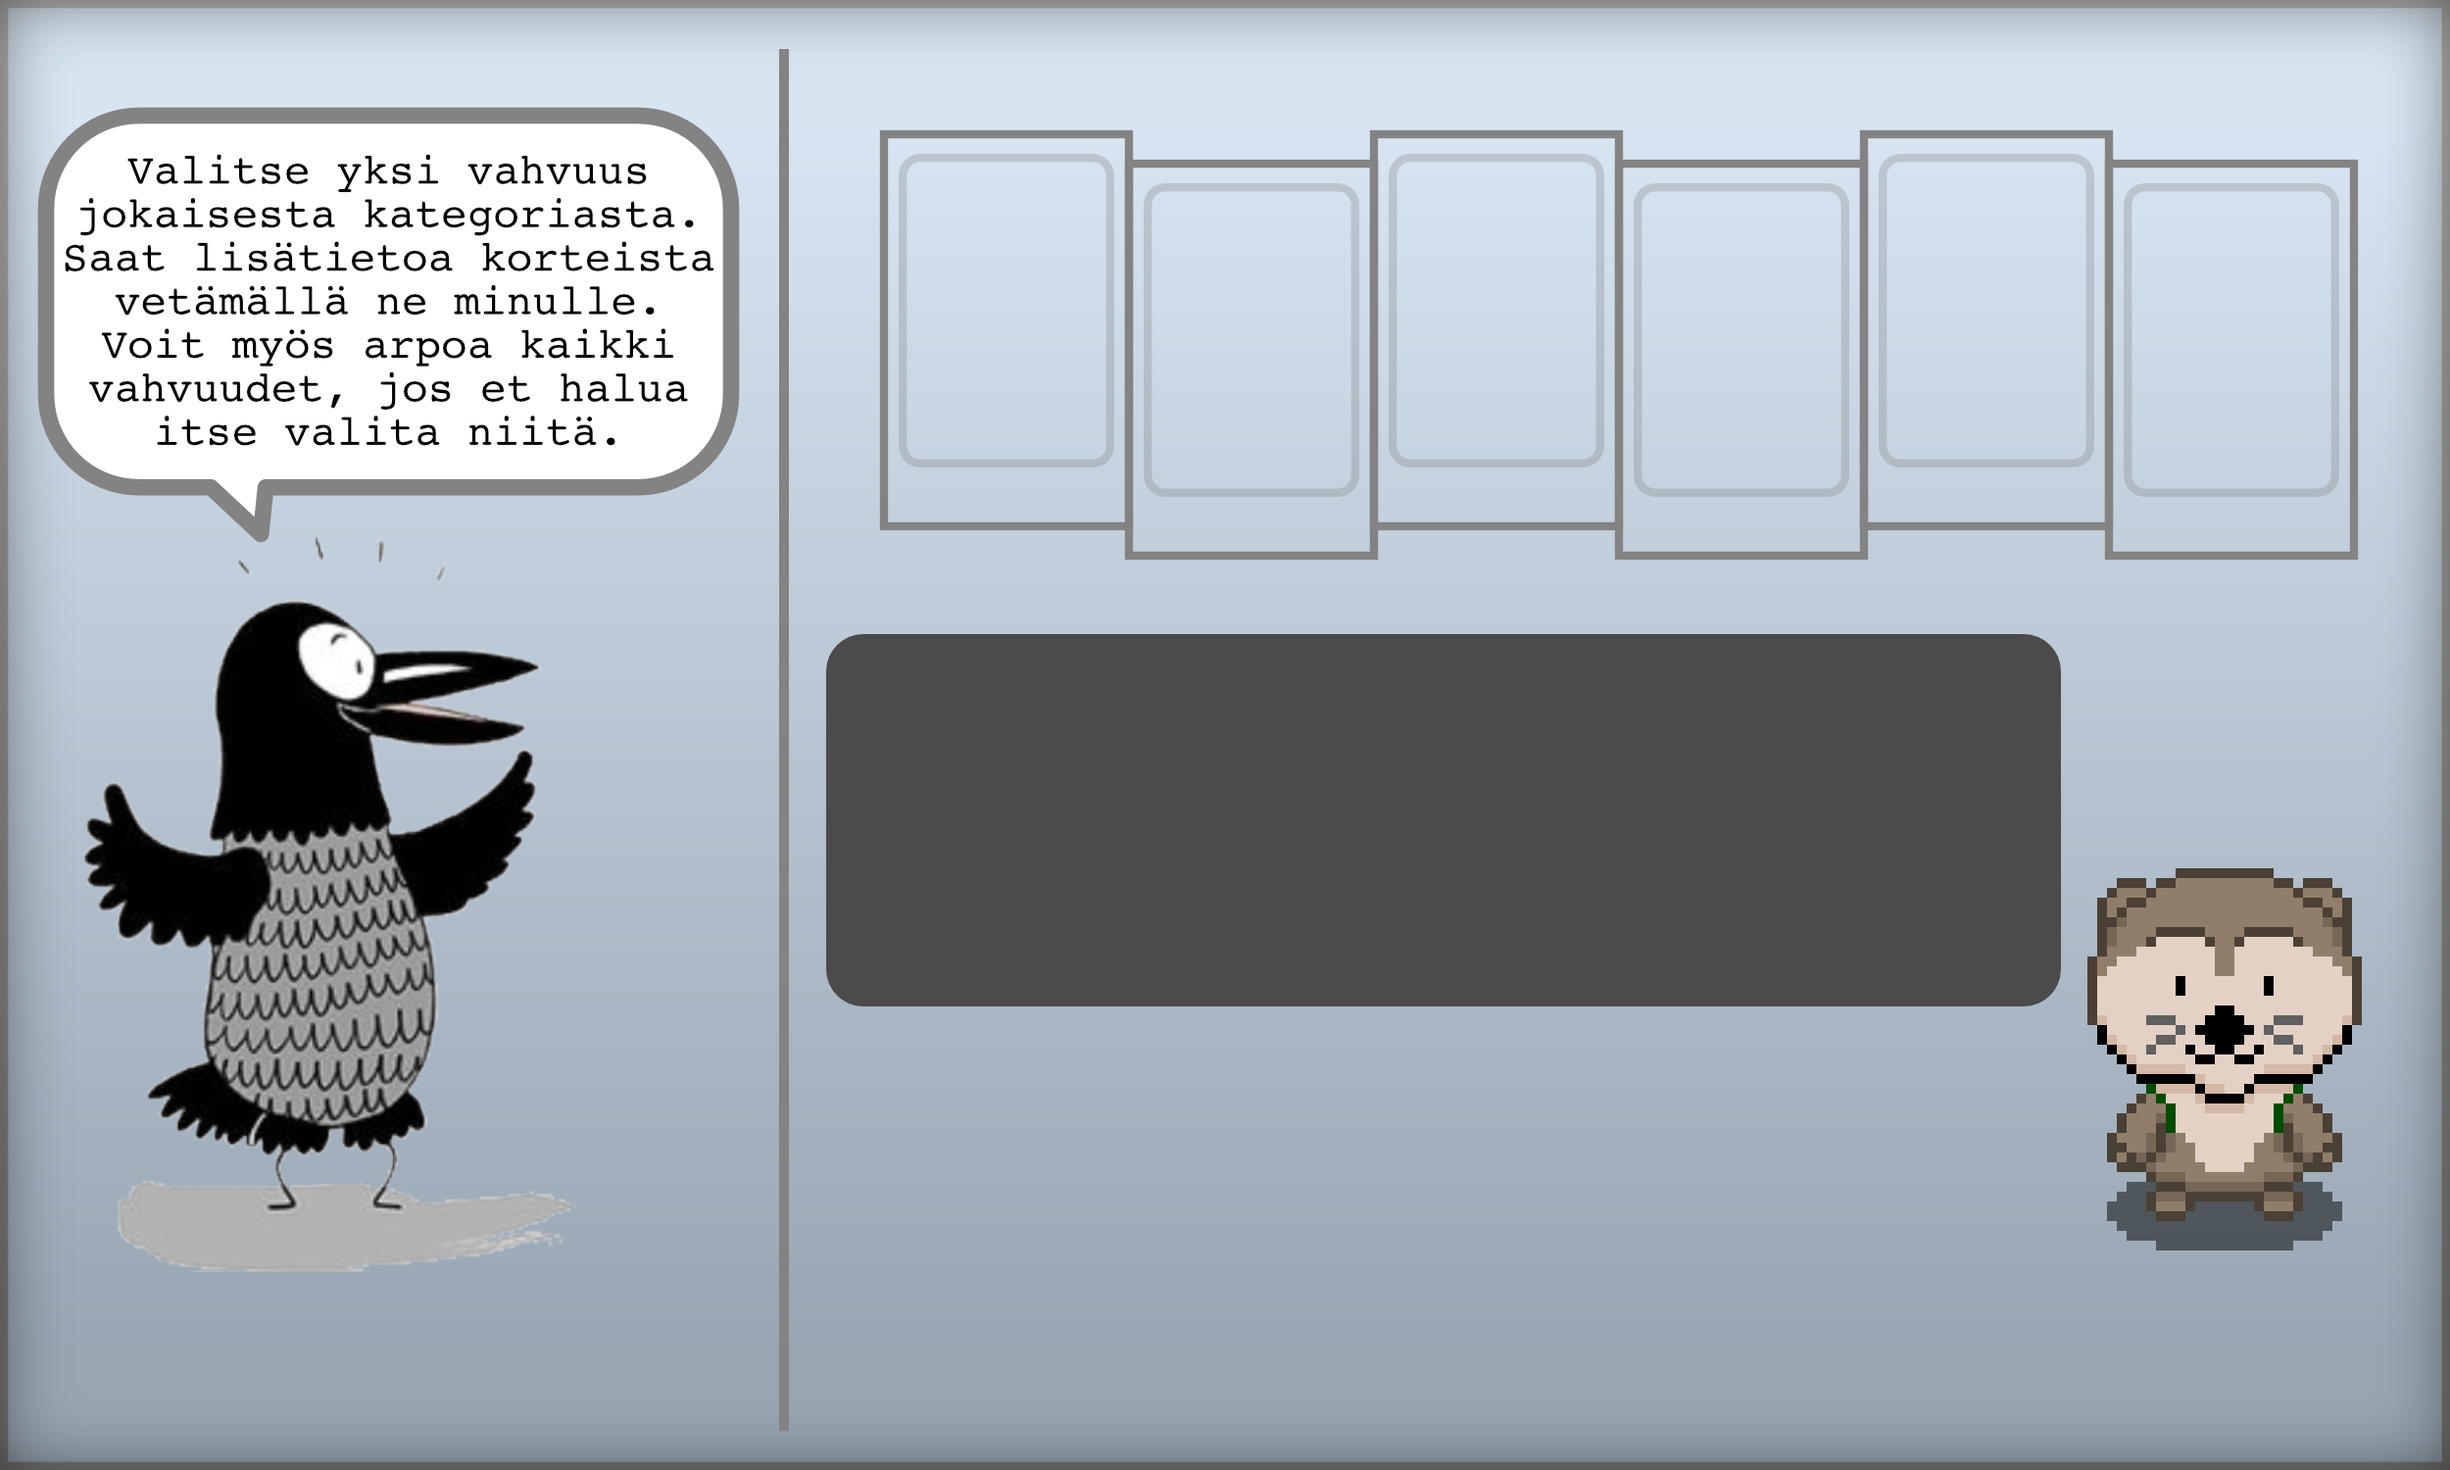
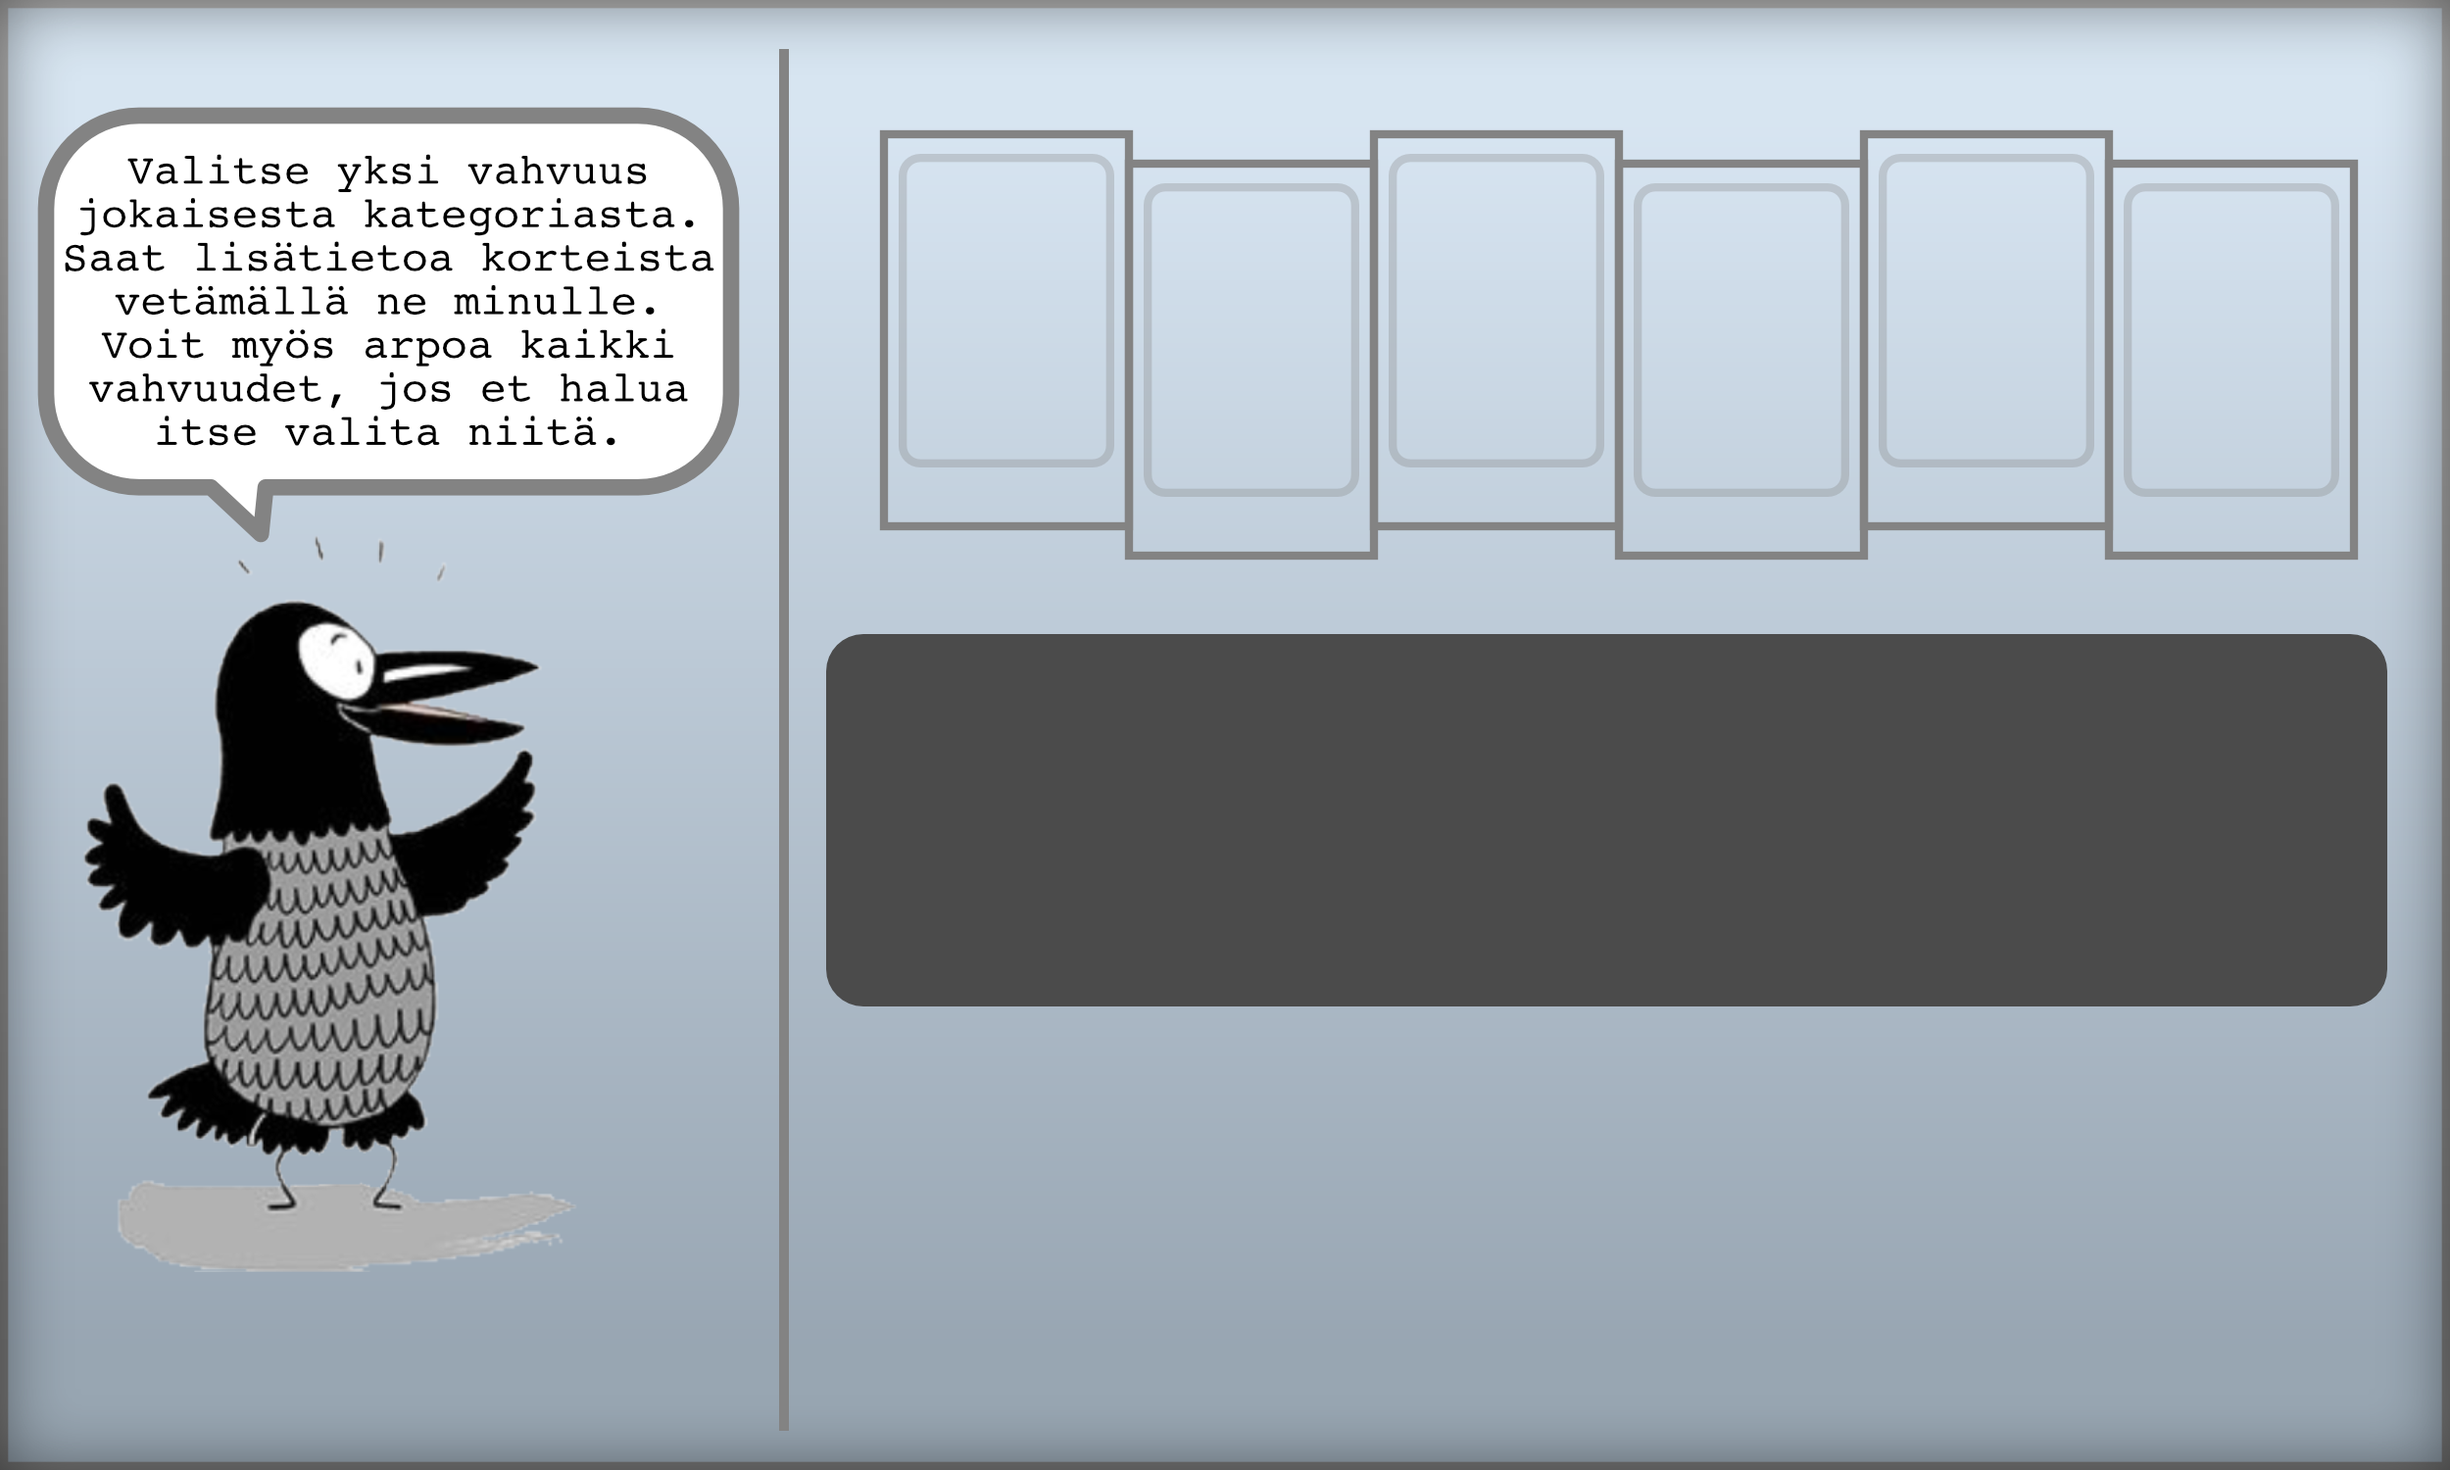
card selection works as intended

Changed region(s): [[0.8112, 0.4293, 0.9984, 0.8587]]

diff --git a/strengthMenu.py b/strengthMenu.py
@@ -6,19 +6,19 @@ import button
 import text
 import random
 
-# Class for the menu where the strength cards can be looked at and are selected
+# Class for the menu where the strength cards can be looked at and selected
 class StrengthMenu():
     def __init__(self):
         self.pos = (0,0)
         self.background = None
-        self.decks: list[list[strengthCard.StrengthCard]] = [] # every card in categorized lists
+        self.decks: list[list[tuple[strengthCard.StrengthCard,pygame.Rect]]] = [] # every card in categorized lists
         for i in range(26):
             if i == 0 or i == 5 or i == 10 or i == 14 or i == 17 or i == 21:
                 self.decks.append([])
-            self.decks[-1].append(strengthCard.createStrengthCard(i))
+            card = strengthCard.createStrengthCard(i)
+            rect = card.image.get_rect(center = (0,0))
+            self.decks[-1].append((card,rect))
         self.favorites = []
-        for i in range(len(self.decks)):
-            self.favorites.append(random.choice(self.decks[i]))
         self.cardPiles = []
         for i in range(6):
             self.cardPiles.append(picture.Picture("images/card_pile.png",(246,386), (0,0), 0.45))
@@ -30,7 +30,8 @@ class StrengthMenu():
                        text.Text(const.gameFont(15), "Henkisyys", (0,0))]
         self.inspectPile = 0
         self.strengthBackground = picture.Picture("images/strength_menu.png", (2500,1500), (0,0), 0.45)
-        self.updateBackground()
+        self.otter = picture.Picture("images/otter_1.png", (140,195), (0,0), 0.45)
+        self.randomizeFavo()
         self.backButton = button.Button(0,4,(0,0), 0.45, const.gameFont(13), "Takaisin päävalikkoon")
         self.randomizeButton = button.Button(0,4,(0,0), 0.45, const.gameFont(15), "Arvo vahvuudet")
         self.readyButton = button.Button(0,4,(0,0), 0.45, const.gameFont(15), "Aloita seikkailu!")
@@ -38,31 +39,46 @@ class StrengthMenu():
 
     def getDeck(self):
         return [self.favorites[0],self.favorites[1],self.favorites[2],self.favorites[3],self.favorites[4],self.favorites[5]]
+    
+    def randomizeFavo(self):
+        self.favorites = []
+        for i in range(len(self.decks)):
+            self.favorites.append(random.choice(self.decks[i])[0])
+        self.updateBackground()
 
     # Update menu element positions
     def updatePos(self, screenCenter):
         self.pos = screenCenter
+        self.strengthBackground.updatePos(screenCenter)
         self.backButton.updatePos(((screenCenter[0]-450,screenCenter[1]+295)))
         self.randomizeButton.updatePos(((screenCenter[0],screenCenter[1]+295)))
         self.readyButton.updatePos(((screenCenter[0]+450,screenCenter[1]+295)))
         for i, pile in enumerate(self.cardPiles):
             pile.updatePos((screenCenter[0]+i*112.5-100, screenCenter[1]-187 + (i%2)*14))
+        for deck in self.decks:
+            for i, card in enumerate(deck):
+                card[1].center = (screenCenter[0]-123+i*149, screenCenter[1]+38) 
         self.updateTextPos()
+        self.updateBackground()
 
     def updateTextPos(self):
         for i, text in enumerate(self.titles):
             text.updatePos((self.pos[0]+i*112.5-100, self.pos[1]-283 + (i%2)*210), True)
-        self.titles[self.inspectPile].updatePos((self.pos[0]+101, self.pos[1]-53), True)
+        self.titles[self.inspectPile].updatePos((self.pos[0]+175, self.pos[1]-53), True)
 
     def updateBackground(self):
         self.background = pygame.Surface((2500,1500)).convert_alpha()
         self.background.fill((0, 0, 0, 0)) # Initialize background
         self.background.blit(self.strengthBackground.image,(0,0))
-        for i, pile in enumerate(self.cardPiles):
-            if i != self.inspectPile:
+        for i, pile in enumerate(self.cardPiles):   # Blit all the decks
+            if i != self.inspectPile:               # Except the open deck
                 self.background.blit(pile.image, (408+i*112.5, 65 + (i%2)*14))
-        for i, card in enumerate(self.decks[self.inspectPile]):
-            self.background.blit(card.image, (376 + i*112, 289))
+                smallPic = pygame.transform.rotozoom(self.favorites[i].image,0,0.88)
+                self.background.blit(smallPic, (408+i*112.5, 86 + (i%2)*14))  # Blit chosen card on the deck
+        for i, card in enumerate(self.decks[self.inspectPile]): # Blit open deck
+            self.background.blit(card[0].image, (card[1].x-self.strengthBackground.rect.x,card[1].y-self.strengthBackground.rect.top))
+            if card[0].imageNum == self.favorites[self.inspectPile].imageNum: # Blit otter below the selected card
+                self.background.blit(self.otter.image, (408 + i*149, 440))
 
     # Draw menu elements on the screen
     def draw(self, screen):
@@ -77,6 +93,7 @@ class StrengthMenu():
     def handleEvent(self, event, screenSize):
         for btn in self.buttons:
             btn.handleEvent(event, screenSize)
+        # Selecting decks
         for i, pile in enumerate(self.cardPiles):
             if event.type == pygame.FINGERDOWN:
                 if pile.rect.collidePoint(event.x*screenSize[0], event.y*screenSize[1]):
@@ -84,8 +101,19 @@ class StrengthMenu():
                     self.updateBackground()
                     self.updateTextPos()
             # Track mouse
-            if event.type == pygame.MOUSEBUTTONDOWN and event.button == 1:
+            elif event.type == pygame.MOUSEBUTTONDOWN and event.button == 1:
                 if pile.rect.collidepoint(event.pos):
                     self.inspectPile = i
                     self.updateBackground()
                     self.updateTextPos()
+        # Selecting cards
+        for card in self.decks[self.inspectPile]:
+            if event.type == pygame.FINGERDOWN:
+                if card[1].collidePoint(event.x*screenSize[0], event.y*screenSize[1]):
+                    self.favorites[self.inspectPile] = card[0]
+                    self.updateBackground()
+            # Track mouse
+            elif event.type == pygame.MOUSEBUTTONDOWN and event.button == 1:
+                if card[1].collidepoint(event.pos):
+                    self.favorites[self.inspectPile] = card[0]
+                    self.updateBackground()

diff --git a/strengthDeck.py b/strengthDeck.py
@@ -10,7 +10,6 @@ class StrengthDeck():
     # cards: list of strength cards
     # font: font used by the deck to show texts
     def __init__(self, cards):
-        print(cards)
         self.pos = (0,0)
         self.shinePhase = 0
         overlaySpriteSheet = pygame.image.load('images/card_overlay.png').convert() # Load strength spritesheet
@@ -40,7 +39,7 @@ class StrengthDeck():
         self.background.fill((0, 0, 0, 0)) # Initialize background
         for i, overlay in enumerate(self.overlays): # Blit every card image and its overlay to background
             self.background.blit(self.cards[i].image, overlay[1])
-            self.background.blit(overlay[0], overlay[1])
+
 
     # Update all the cards
     def update(self, floor):

diff --git a/main.py b/main.py
@@ -148,6 +148,8 @@ async def main():
             strengthPicker.draw(screen)
             if strengthPicker.backButton.activeFinger:
                 gameStatus = "menu"
+            if strengthPicker.randomizeButton.activeFinger:
+                strengthPicker.randomizeFavo()
             if strengthPicker.readyButton.activeFinger:
                 gameStatus = "level"
                 deck = strengthDeck.StrengthDeck(strengthPicker.getDeck())
